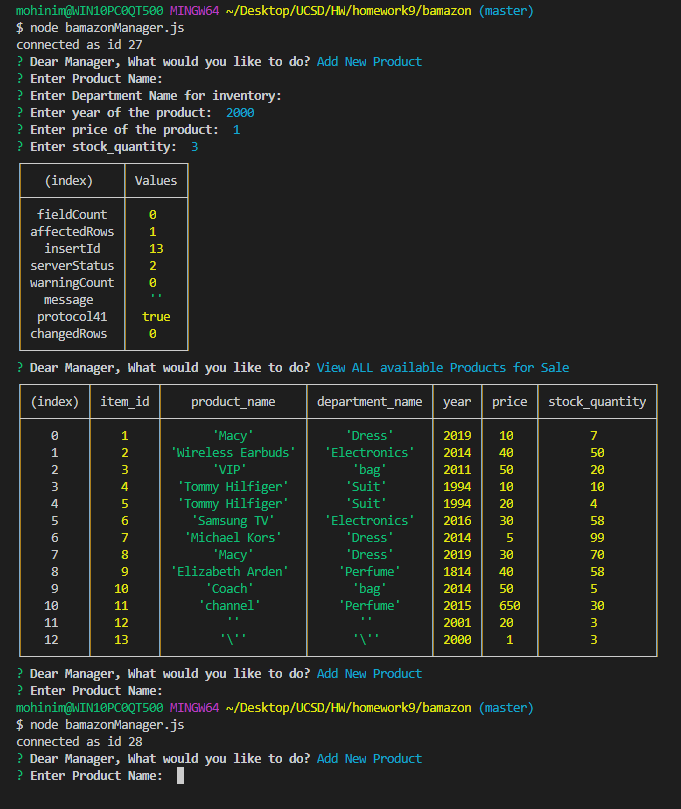
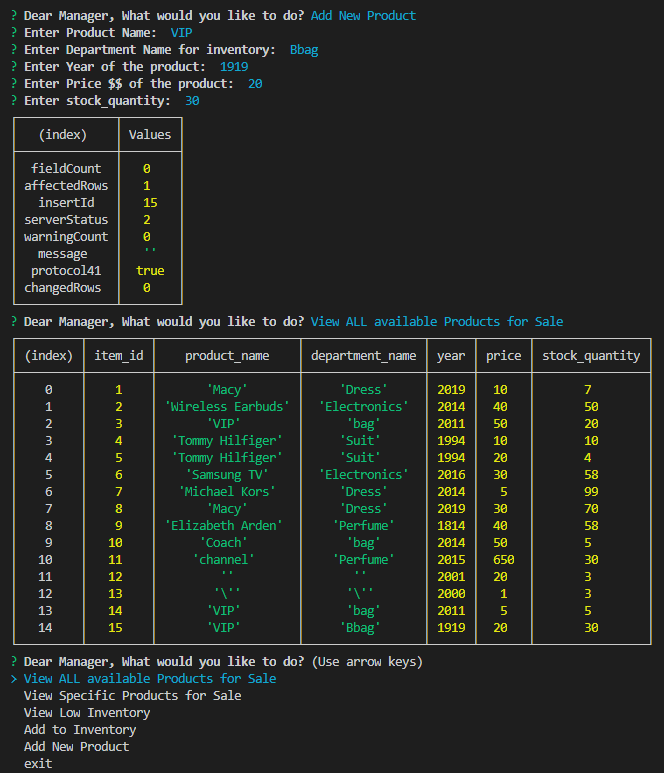
manager Q4 added

Changed region(s): [[0.0, 0.0, 0.994, 0.9935]]

diff --git a/bamazonManager.js b/bamazonManager.js
@@ -156,39 +156,27 @@ function AddNewProduct() {
                 name: "product_name",
                 type: "input",
                 message: "Enter Product Name: ",
-                validate: function (value) {
-                    if (isNaN(value) === false) {
-                        return true;
-                    }
-                    return false;
-                }
             },
             {
                 name: "department_name",
                 type: "input",
-                message: "Enter Department Name for inventory: ",
-                validate: function (value) {
-                    if (isNaN(value) === false) {
-                        return true;
-                    }
-                    return false;
-                }
+                message: "Enter Department Name for inventory: ",                
             },
             {
                 name: "year",
                 type: "input",
-                message: "Enter year of the product: ",
-                validate: function (value) {
+                message: "Enter Year of the product: ",
+                 validate: function (value) {
                     if (isNaN(value) === false) {
                         return true;
                     }
                     return false;
-                }
+                } 
             },
             {
                 name: "price",
                 type: "input",
-                message: "Enter price of the product: ",
+                message: "Enter Price $$ of the product: ",        
                 validate: function (value) {
                     if (isNaN(value) === false) {
                         return true;
@@ -211,10 +199,7 @@ function AddNewProduct() {
         .then(function (answer) {
             //"INSERT INTO products ( product_name, department_name, year, price,stock_quantity)
             //VALUES ("Macy", "Dress", 2019, 10, 5)";
-            console.log(answer.product_name);
-            console.log(answer.department_name);
-
-            var query = "INSERT INTO products ( product_name, department_name, year, price,stock_quantity) VALUES ('?', '?', ?, ?, ?)";
+            var query = "INSERT INTO products ( product_name, department_name, year, price,stock_quantity) VALUES (?, ?, ?, ?, ?)";
             connection.query(query, [answer.product_name, answer.department_name, answer.year,
             answer.price, answer.stock_quantity], function (err, res) {
                 console.table(res);
